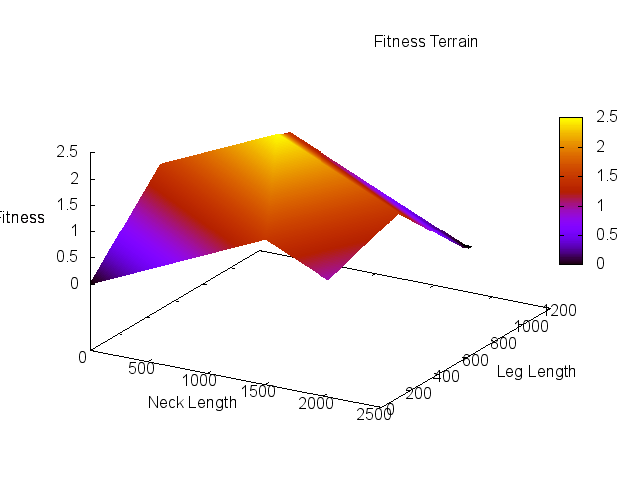
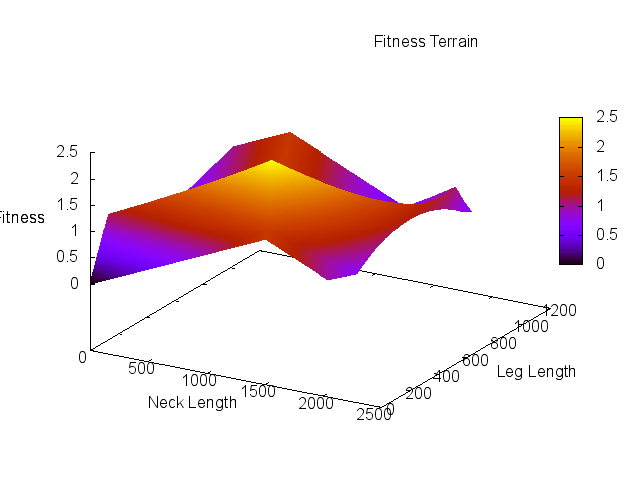
Make speed dependent on both leg length and body weight

Changed region(s): [[0.125, 0.2812, 0.75, 0.5938]]

diff --git a/src/giraffe.rs b/src/giraffe.rs
@@ -159,6 +159,16 @@ impl HasHeight for Giraffe {
 
 impl HasSpeed for Giraffe {
     fn speed(&self) -> u32 {
-        self.leg_length()
+        let leg_length  = self.leg_length() as f32;
+        let neck_length = self.neck_length() as f32;
+
+        let weight = 4.0 * leg_length + neck_length;
+        let speed  = leg_length * 4.0 - 0.0001 * weight * weight;
+
+        if speed <= 0f32 {
+            0u32
+        } else {
+            speed as u32
+        }
     }
 }

diff --git a/README.md b/README.md
@@ -17,7 +17,8 @@ These genes are exposed to selective pressure. Fur color's selection is modeled
 with ability to camoflage, but leg length and neck length are not directly selected
 for. Rather:
 
-1) giraffes must outrun lions, and their running speed is dictated by their leg length
+1) giraffes must outrun lions, and their running speed is dictated by both leg
+   length and bodyweight
 
 2) giraffes must eat, and their ability to forage is based on their total height
 
